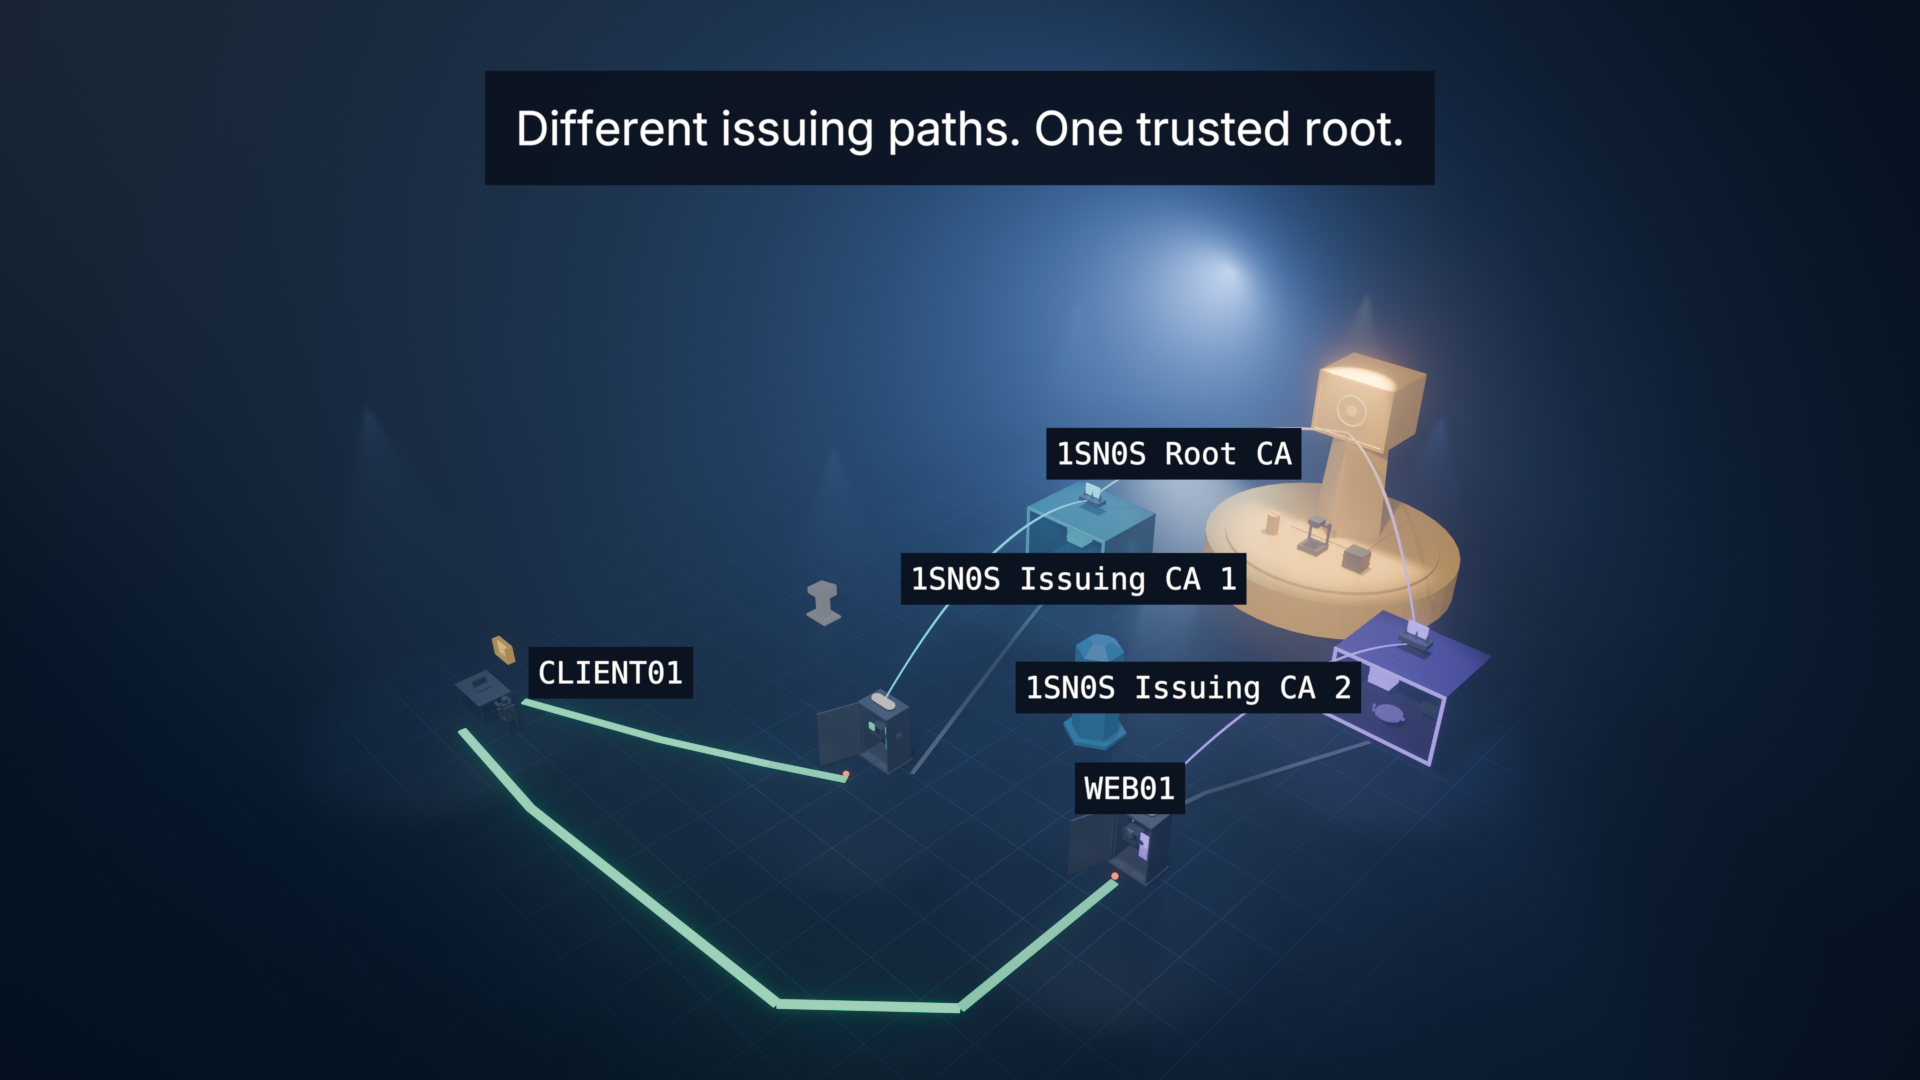
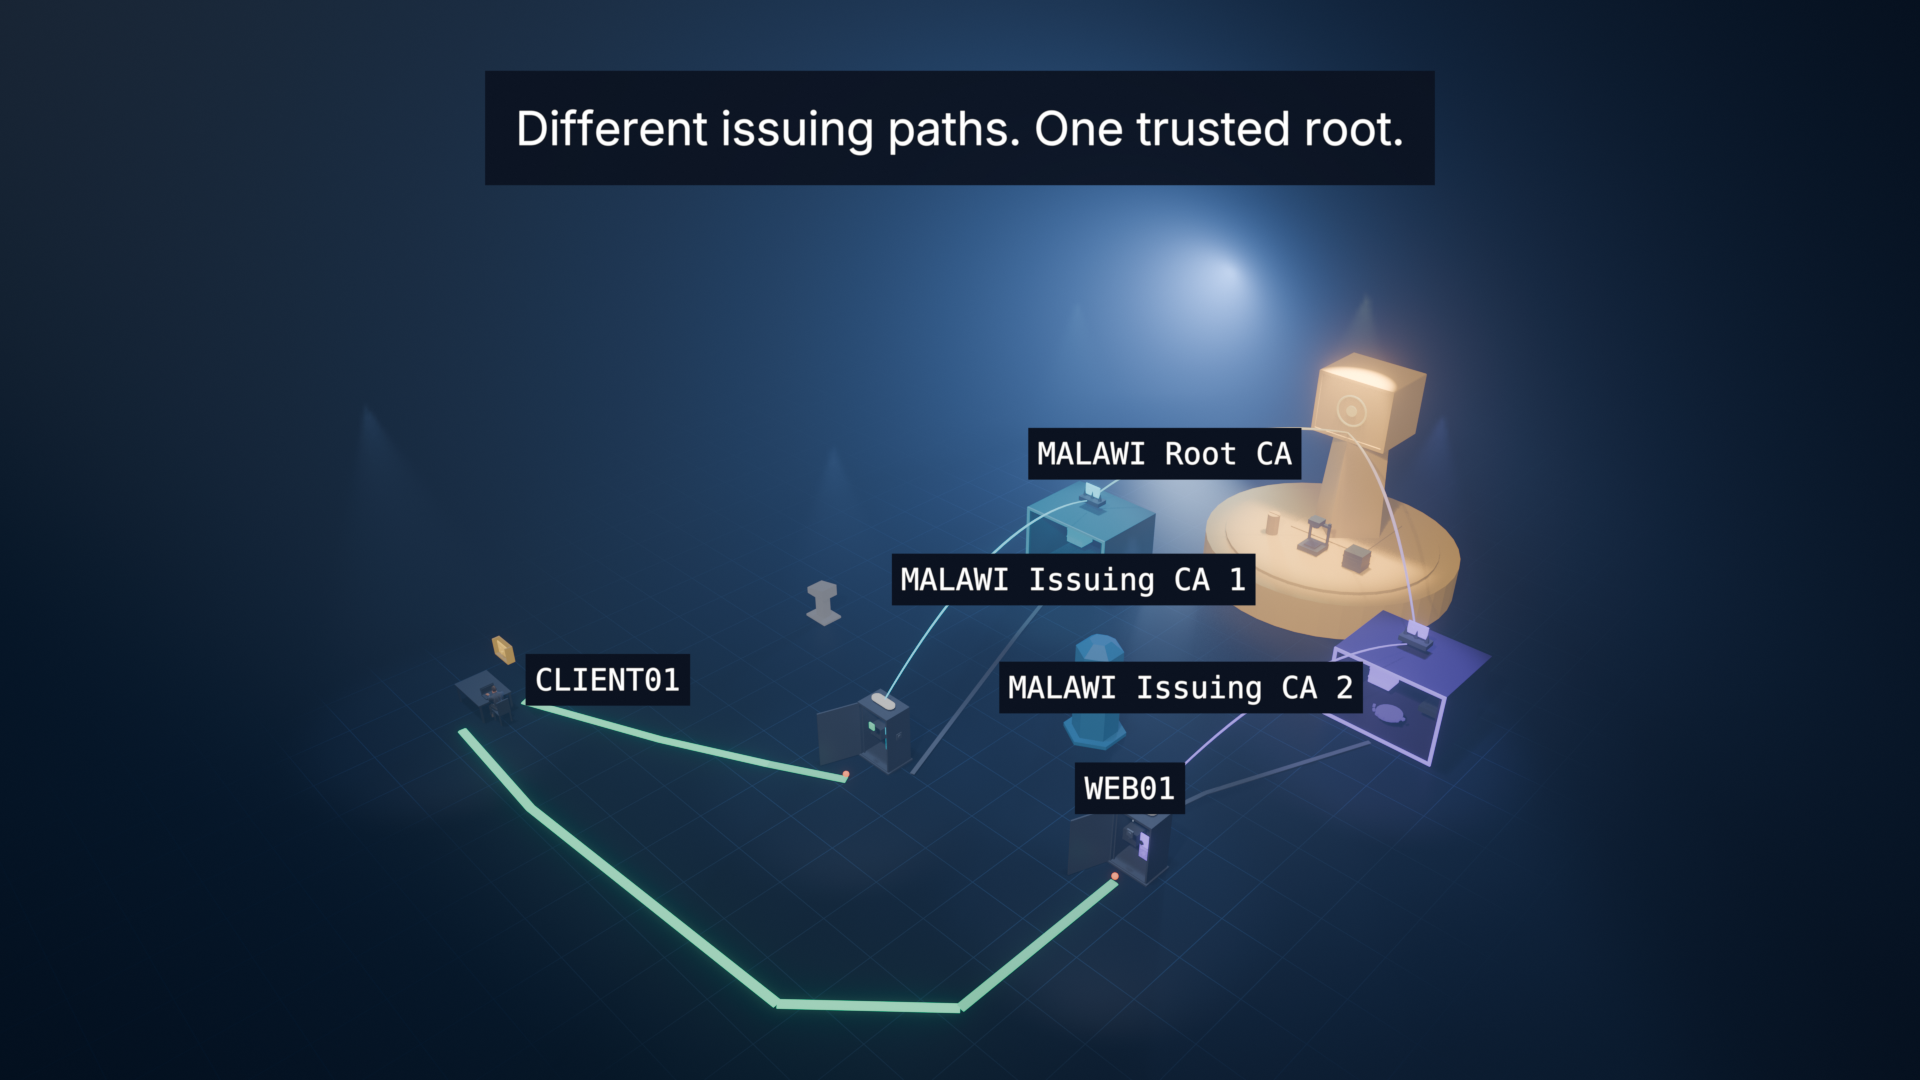
V4 close-out: Final MP4 f084da60 (verify green, 17 in-Blender checks), ledger, approvals, state; next: V4 audit (Fable 5.2, High)

diff --git a/docs/GAN-LEDGER.md b/docs/GAN-LEDGER.md
@@ -457,3 +457,26 @@ The owner set this session before the V3 audit ran, so the V3 Final MP4 (`e50507
 - **V4-A1 Names (owner request, 2026-11-14).** `AD_DOMAIN_FQDN` `MALAWI.LAB`, `AD_NETBIOS` `MALAWI`, `DNS_SUFFIX` `malawi.lab`; fallbacks `MALAWI Root CA`, `MALAWI Issuing CA 1`, `MALAWI Issuing CA 2`, `portal.malawi.lab`, `pki.malawi.lab`. REFERENCE-SPEC treats a names change as a names update, not a content change, but its bytes changed, so the hash is recorded below. Current source, tests, docs, README, `qa\regressions.json` and the site builder were updated. Left as written: historical ledger, approval and audit entries, and the frozen round packets under `qa\rounds\` and `qa\calibration\`. `site\` was also left as it is: it is the deployed v1.2.0 page, and a push under `site/**` redeploys Pages. The site text now comes from `cff.config.names` through `scripts\build_site.py`, so the next audited release publishes MALAWI. Test: `tests\test_v4.py::test_V4_REN_01_*`.
 - **V4-A2 User character (owner request, 2026-11-14).** Charter Section 9 "World" said "no realistic humans … no external models, textures". That rule is replaced for the user character only: a realistic adult office worker generated with the MPFB add-on (extensions.blender.org, 2.0.18) from CC0 MakeHuman assets, saved as `assets\character.blend`, loaded locally at build time, with skin and cloth slightly stylized. REFERENCE-SPEC B-01.1, the charter's B-01.1 line and the STORYBOARD blocking row now say "an adult office worker seated at the laptop", which fits option A (stylized fallback) as well. Every other object stays procedural. Licences: `LICENSES\` and `README.md`. Test: `tests\test_v4.py::test_V4_CHR_01_*`.
[1 lines of base64/hex data omitted]
+
+### Character (option B kept)
+
+- **Asset:** `assets\character.blend`, 4.2 MB, SHA-256 `6a6bc666…1961`, generated by `python -m tools character`. The tool fetches MPFB 2.0.18 and the MakeHuman CC0 asset pack (both pinned by SHA-256) and installs MPFB into `renders\toolcache\extensions` via `BLENDER_USER_EXTENSIONS`, so the user's Blender profile is not touched. One side effect: MPFB wrote a log-level config under `%APPDATA%\Blender Foundation\Blender\5.2\mpfb\config`. Parts: MakeHuman base mesh and default rig, low-poly eyes, eyebrow001, short02 hair (mesh, no particles), male_casualsuit01 (button shirt and trousers, no logo), shoes02. All CC0; `assets\character.manifest.json` quotes each source's CC0 statement. Shape keys and helpers are baked; textures are downscaled and packed.
+- **Layout ruling (V4-R1):** the laptop stood at the desk centre, 1.6 m from the user, beyond any seated reach (the old box figure never touched it). The laptop moved to x −11.42 and the chair to x −10.9; the idle screen follows the lid, and `USER_HEAD` follows the head. Every other track is byte-identical (timeline diff against ea51f11: only `USER|location` and the homes of CLIENT, SCREEN-IDLE and USER changed).
+- **Pose and motion:** computed in Blender from `cff.stage.character`: spine lean 12°, thighs and shins aimed, a two-bone arm solve onto the keyboard, a palm-down forearm twist, a resting finger curl, and the hand levelled so the fingertips hover over the keys. Keys are quaternions between precomputed poses: seeded typing bursts (seed 20261114, 424 strokes, 8° knuckle flex), breathing (4 s period, 0.7° chest pitch, about 6 mm at the head), and head turns tied to E-01.1a and the two session windows (read from the timeline). Bezier with `EASE_IN_OUT` or `SMOOTH` only.
+- **Shading:** skin is the flat token `SKIN_HEX` with 0.15 subsurface. Cloth, hair, eyes and brows keep their CC0 textures at saturation 0.7, matte, with no normal maps. One render subdivision in the preview and final tiers.
+- **Fallback gate (preview tier, images 2–3 of 10):** 2 stills (f40, f2100) and a typing strip (f100–110). The figure reads as a natural seated office worker, not uncanny, with hands on the keys and the head to the screen. **Decision: B kept; A not built.**
+
+### New finding found and fixed in this session
+
+| ID | Severity | Finding | Fix |
+|---|---|---|---|
+| V4-CHR-02 | MAJOR (fixed before any final frame) | The new in-Blender check `character_seated` found the curled fingertips about 5 cm inside the laptop base: the aimed hand plus the resting curl dropped 9 cm in front of the wrist. Once that was fixed, each keystroke still dipped the pads 3–6 mm into the base. | The hand is levelled (bisection on its pitch about the knuckle line) so the resting middle fingertip is 2.3 cm over the keys; stroke flex 12° → 8°. The check now samples a 15-frame grid plus each stroke's deepest frame (611 frames): wrists within 6 mm of target, lowest fingertip bone 5 mm above the keys (pad allowance 6 mm, tolerance 3 mm). |
+
+### Render and result
+
+- **Beauty re-render range (computed, `qa\v4\beauty-rerender.json`):** frames where the camera plan differs from the pre-change baseline (f1–184, f303–378), or where the client-cluster region grown by 1 m (old and new bounds) projects into the frame grown by 10%, dilated ±3 frames: **1364 of 3270** (f1–187, f289–387, f1511–2121, f2804–3270). The other 1906 v1.3 beauty frames are kept. Signs (2829) and captions (1933) were re-rendered for the whole film because of the rename. Audio was kept (no event timing changed). Replaced frames are in `renders\final-v1.3-*`.
+- **Seams:** the luma steps across all six boundaries are no larger than their neighbours (max 1.8 at f2121/2122, inside an existing camera ramp).
[1 lines of base64/hex data omitted]
+- **Review:** 1 final contact sheet (image 4 of 10). MALAWI names on every sign and card shown, the character seated and typing, no blank or broken tiles. Not run: a discriminator round (lean mode); the audio was not heard (unchanged).
+
+Next: the V4 audit (Fable 5.2, High), prompt "Session V4 audit" in `docs\SESSION-PROMPTS.md`: a full audit of this Final MP4 and the release decision. Pages stays on v1.2.0 until then.

diff --git a/docs/PROJECT-STATE.md b/docs/PROJECT-STATE.md
@@ -2,18 +2,21 @@
 
 Updated: 2026-11-14 (Session V4, `claude-opus-5-5`, no subagents)
 
-## SESSION V4 (2026-11-14, Opus 5.5, no subagents) — MALAWI rename + realistic user character, NO release (Pages stays on v1.2.0)
-- The owner set V4 before the V3 audit ran. The V3 Final MP4 (`e5050765…30b6`) was never audited and is superseded by the V4 render.
-- Done and pushed: d3c600d (rerender-range tool and pre-change baseline), ea51f11 (V4-A1 rename, V4-A2 amendment, new spec hash `6a60d216…1a55`), a58e8d8 (character: `assets\character.blend` 4.2 MB, MPFB 2.0.18 + CC0 MakeHuman assets, option B kept after the preview gate; laptop to x −11.42, chair to −10.9; in-Blender check `character_seated`).
-- **Running:** `python -m tools render --tier final --rebuild` (log `renders\v4-render.log`, resumable). It fills exactly the missing frames: beauty 1364 frames (f1–187, f289–387, f1511–2121, f2804–3270, from `qa\v4\beauty-rerender.json`), all 2808 sign and 1933 caption frames (rename). Replaced frames are kept in `renders\final-v1.3-beauty-replaced`, `renders\final-v1.3-signs` and `renders\final-v1.3-captions`. Audio is kept (no timing change).
-- **If interrupted:** rerun the same command, then `python -m tools encode`, then `python -m tools verify`.
+## SESSION V4 DONE (2026-11-14, Opus 5.5, no subagents, 4 of 10 images) — MALAWI rename + realistic user character, NO release (Pages stays on v1.2.0)
[1 lines of base64/hex data omitted]
+- `python -m tools verify` VERIFY GREEN: pytest 213, **17** in-Blender checks (new `character_seated`), both tiers 3270/3270, MP4 on spec, true peak −1.2 dBFS, cut steps 0.4 / 0.1, MP4 luma gate PASS.
+- The owner set V4 before the V3 audit ran; the V3 MP4 (`e5050765…30b6`) is superseded unaudited.
+- Commits: d3c600d (rerender-range tool and baseline), ea51f11 (V4-A1 rename, V4-A2 amendment, spec hash `6a60d216…1a55`, Stage 4 clean-round counter reset), a58e8d8 (character), then render and close-out commits.
+- **Character: option B kept** (preview gate: 2 stills, 1 typing strip). `assets\character.blend` 4.2 MB from MPFB 2.0.18 + CC0 MakeHuman assets (`assets\character.manifest.json`, `LICENSES\CC0-1.0.txt`, README). Regenerate: `python -m tools character`. Laptop moved to x −11.42, chair to −10.9 (V4-R1). V4-CHR-02 (fingertips in the laptop) found and fixed before the final render.
+- Render: beauty 1364 computed frames (`qa\v4\beauty-rerender.json`), all signs (2829) and captions (1933); audio kept. Replaced v1.3 frames are kept in `renders\final-v1.3-beauty-replaced`, `-signs`, `-captions`; seams measured smooth.
+- **Next session: V4 audit on Fable 5.2, High.** Prompt "Session V4 audit" in `docs\SESSION-PROMPTS.md`: a full audit of this Final MP4, then release v1.3.0 only if it passes (the site is rebuilt then, so Pages shows MALAWI).
 
 ## SESSION V3 DONE (2026-11-14, Opus 5.5, no subagents, 5 of 8 images) — v1.3 finishing pass, NO release (Pages stays on v1.2.0)
[1 lines of base64/hex data omitted]
 - `python -m tools verify` VERIFY GREEN: pytest 205, 16 in-Blender checks, both tiers 3270/3270, MP4 on spec, true peak −1.2 dBFS, cut steps 0.4 / 0.1, new MP4 luma gate PASS (f746 0.1, f1376 0.6, f1534 1.4, f1535 2.0; V3-CIN-01 frames ≤ 1.8; B-09.2 mean 56.3, from 98.5 s 56.1).
 - Items: (1) L2-CIN-01 fixed by a continuous rig-light lift; (2) chassis and vault interiors dressed and lit; (3) hero whole from 98.5 s (B-09.2 also left `C03_OPEN_BEATS`); (4) proof tag "Proof: private-key signature", 45 of 45 full frames. New MINOR V3-CIN-01 (interior flicker from EEVEE shadow-pool overflow) found and fixed. Remaining steps above 4.0 (f1254 4.1, f2454–2455) are ruled not findings (V3-R3). Details: `docs\GAN-LEDGER.md` "Session V3".
 - Kept on disk (gitignored) for the audit: `renders\final-v1.2-beauty` (v1.2 beauty frames) and `renders\final-v1.2-signs-changed`. `renders\preview` holds the preview-gate frames.
-- **Next session: V3 audit on Fable 5.2, High** — prompt "Session V3 audit" in `docs\SESSION-PROMPTS.md`: re-audit this Final MP4, then release v1.3.0 only if it passes.
+- (superseded by V4) **Next session was: V3 audit on Fable 5.2, High** — prompt "Session V3 audit" in `docs\SESSION-PROMPTS.md`: re-audit this Final MP4, then release v1.3.0 only if it passes.
 
 ### V3 progress log (history)
 - Source done and pushed (9882cec, 63289f7, ab51778, 9d11993, 994e7ca): L2-CIN-01 rig keep-out (`cff\stage\rig.py`), interiors (`blender\dressing.py`), hero whole from 98.5 s (`Shot.lead_s/arrive/focus_pull`), proof tag `LBL-HS-RDP`. Tests `tests\test_v13.py`, in-Blender check `interior_dressing`, verify step `MP4 luma (L2-CIN-01, hero)`.
@@ -109,6 +112,6 @@ Updated: 2026-11-14 (Session V4, `claude-opus-5-5`, no subagents)
 - `pyproject.toml`: ruff line length is **160** (raised from 120 in Session 3), with per-file E501 and N806 ignores for stage data tables, theme, tools and Blender builders.
 
 ## Names in use
-- Fixed: `1SN0S.LAB`, `1SN0S`, `1sn0s.lab`, `RDPAuth`, `WebServer-TLS`.
-- Fallbacks in use: DC `DC01`, client `CLIENT01`, RDP server `RDP01` (`rdp01.1sn0s.lab`), web server `WEB01`, site `portal.1sn0s.lab`, Root CA `1SN0S Root CA`, Issuing CAs `1SN0S Issuing CA 1` / `1SN0S Issuing CA 2`, PKI HTTP host `pki.1sn0s.lab`.
+- Fixed (since V4, 2026-11-14): `MALAWI.LAB`, `MALAWI`, `malawi.lab`, `RDPAuth`, `WebServer-TLS`. Session entries above V4 are historical and still use the earlier name.
+- Fallbacks in use: DC `DC01`, client `CLIENT01`, RDP server `RDP01` (`rdp01.malawi.lab`), web server `WEB01`, site `portal.malawi.lab`, Root CA `MALAWI Root CA`, Issuing CAs `MALAWI Issuing CA 1` / `MALAWI Issuing CA 2`, PKI HTTP host `pki.malawi.lab`.
 

diff --git a/docs/CHIEF-OF-STAFF-APPROVALS.md b/docs/CHIEF-OF-STAFF-APPROVALS.md
@@ -154,3 +154,14 @@ Lean mode (no subagents, no discriminator round, no tag, no release). Details, p
 - **Tests run (real results):** `python -m tools verify` VERIFY GREEN on the third pass: ruff clean; mypy --strict 68 files; pytest 205 passed; traceability current; palette 87 pairs, 0 failing; planned-film audits 0 hard; in-Blender 16 of 16; both tiers 3270/3270, 0 blank; final MP4 on spec, true peak −1.2 dBFS; cut steps 0.4 / 0.1; MP4 luma gate f746 0.1, f1376 0.6, f1534 1.4, f1535 2.0, f477 1.8, f595 0.1, f600 0.1, f671 0.5, f705 0.0, f719 0.0, B-09.2 mean 56.3.
[1 lines of base64/hex data omitted]
 - **Decision: v1.3 PASS DELIVERED, release held for the V3 audit.** This is the first attempt at the gate, so it is not approved as a release. Not approved: the charter's film gate (no discriminator round).
+
+## MALAWI rename and realistic user character, session V4 (Opus 5.5, 2026-11-14)
+
+Lean mode (no subagents, no discriminator round, no tag, no release). Details: `docs\GAN-LEDGER.md` "Session V4".
+
+- **Pre-flight:** V3 phase entry was "v1.3 pass delivered, release held for the V3 audit"; the owner ran V4 before that audit, so the V3 MP4 is superseded unaudited. `python -m tools verify` GREEN and local HEAD == origin/main (28ed351) before any change.
+- **Scope:** V4-A1 rename to MALAWI (names, docs, tests, site builder; history left as written with a dated note); V4-A2 realistic user character from MPFB + CC0 MakeHuman assets (option B, fallback A not needed); partial beauty re-render (computed range), full sign and caption re-render, encode.
+- **Problems found and corrections:** the laptop was out of a seated human's reach (moved, V4-R1); V4-CHR-02 fingertips inside the laptop base (found by the new in-Blender check, fixed before any final frame).
+- **Tests run (real results):** `python -m tools verify` VERIFY GREEN on the V4 Final MP4: ruff clean; mypy --strict 72 files; pytest 213 passed (new `tests\test_v4.py`: V4-REN-01, V4-CHR-01); traceability current; palette 87/0; planned-film audits 0 hard; in-Blender 17 of 17 (new `character_seated`); both tiers 3270/3270, 0 blank; final MP4 on spec, true peak −1.2 dBFS; cut steps 0.4 / 0.1; MP4 luma gate PASS. Re-render seams measured smooth.
[1 lines of base64/hex data omitted]
+- **Decision: V4 PASS DELIVERED, release held for the V4 audit.** First attempt at this gate, so not approved as a release. Pages stays on v1.2.0.

diff --git a/docs/SESSION-PROMPTS.md b/docs/SESSION-PROMPTS.md
@@ -489,6 +489,22 @@ You are the Chief of Staff for Certificate-Flow-Film, session V3 audit: a target
 6. Commit, push, `python -m tools sync-check`. Report in at most 8 lines.
 ```
 
+> Superseded: V4 ran before this audit. Use "Session V4 audit" below; it covers the V3 items as well.
+
+## Session V4 audit — full audit of the V4 film (+ release decision)
+**Model: Fable 5.2 · Effort: High** (lean mode: no subagents)
+
+```
+You are the Chief of Staff for Certificate-Flow-Film, session V4 audit: a full audit of the V4 film (v1.3 finishing pass + MALAWI rename + realistic user character). No subagents, at most 10 images.
+
+1. Read docs\PROJECT-STATE.md and the "Session V3" and "Session V4" entries of docs\GAN-LEDGER.md (amendments V4-A1, V4-A2).
+2. Re-run `python -m tools verify` and ffprobe. Confirm the Final MP4 SHA-256 recorded in PROJECT-STATE.
+3. Judge on the film: every V3 item (as in the "Session V3 audit" prompt above); the rename (no earlier lab name in any sign, caption or card; MALAWI names correct and accurate to F-01..F-17); the user character at 0-6 s, 10-13 s, 50-71 s and 93.5-109 s (realistic, not uncanny, seated with hands on the keys, typing, breathing, head turns to the screen and the session windows, lit to fit the scene, no intersections); the re-render seams at f187/188, f288/289, f387/388, f1510/1511, f2121/2122, f2803/2804; the character licences (assets\character.manifest.json, LICENSES\CC0-1.0.txt, README). Plus one full-film contact sheet. PASS or FAIL per item.
+4. Give PKI, legibility and cinema scores. If any BLOCKER or MAJOR fails: write exact fixes and stop without a release.
+5. If all pass: release v1.3.0 as the public latest release (README, CHANGELOG, Pages from the V4 assets via scripts\build_site.py in the same session; the site text then shows MALAWI), round-trip the assets' SHA-256, verify the live page.
+6. Commit, push, `python -m tools sync-check`. Report in at most 8 lines.
+```
+
 ---
 
 ## Resume prompt (any session, after a usage limit or a long context)
